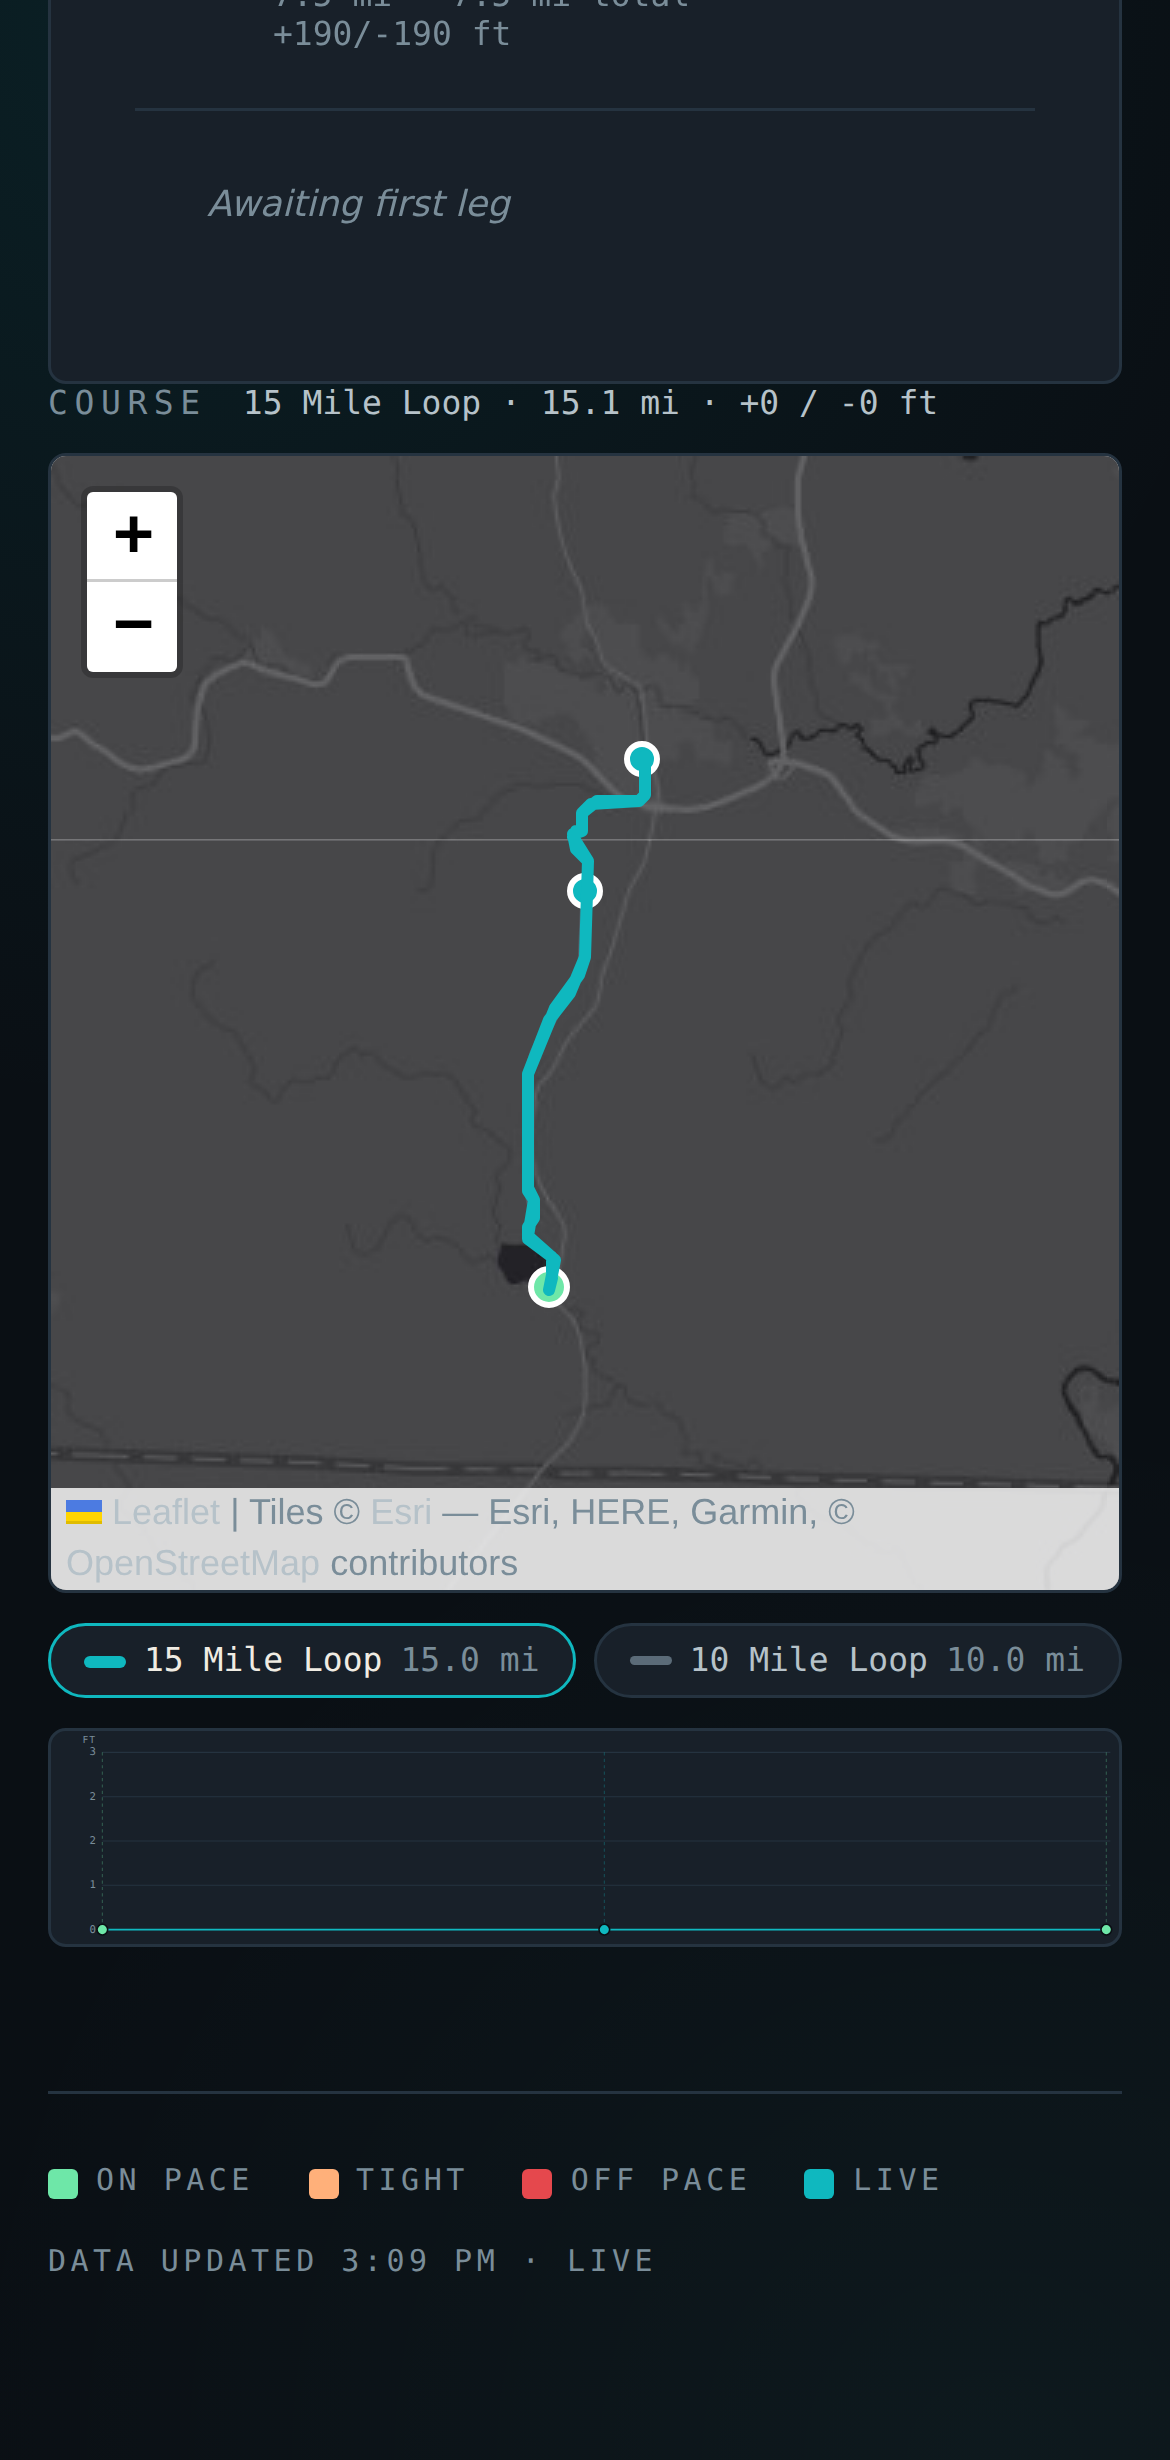
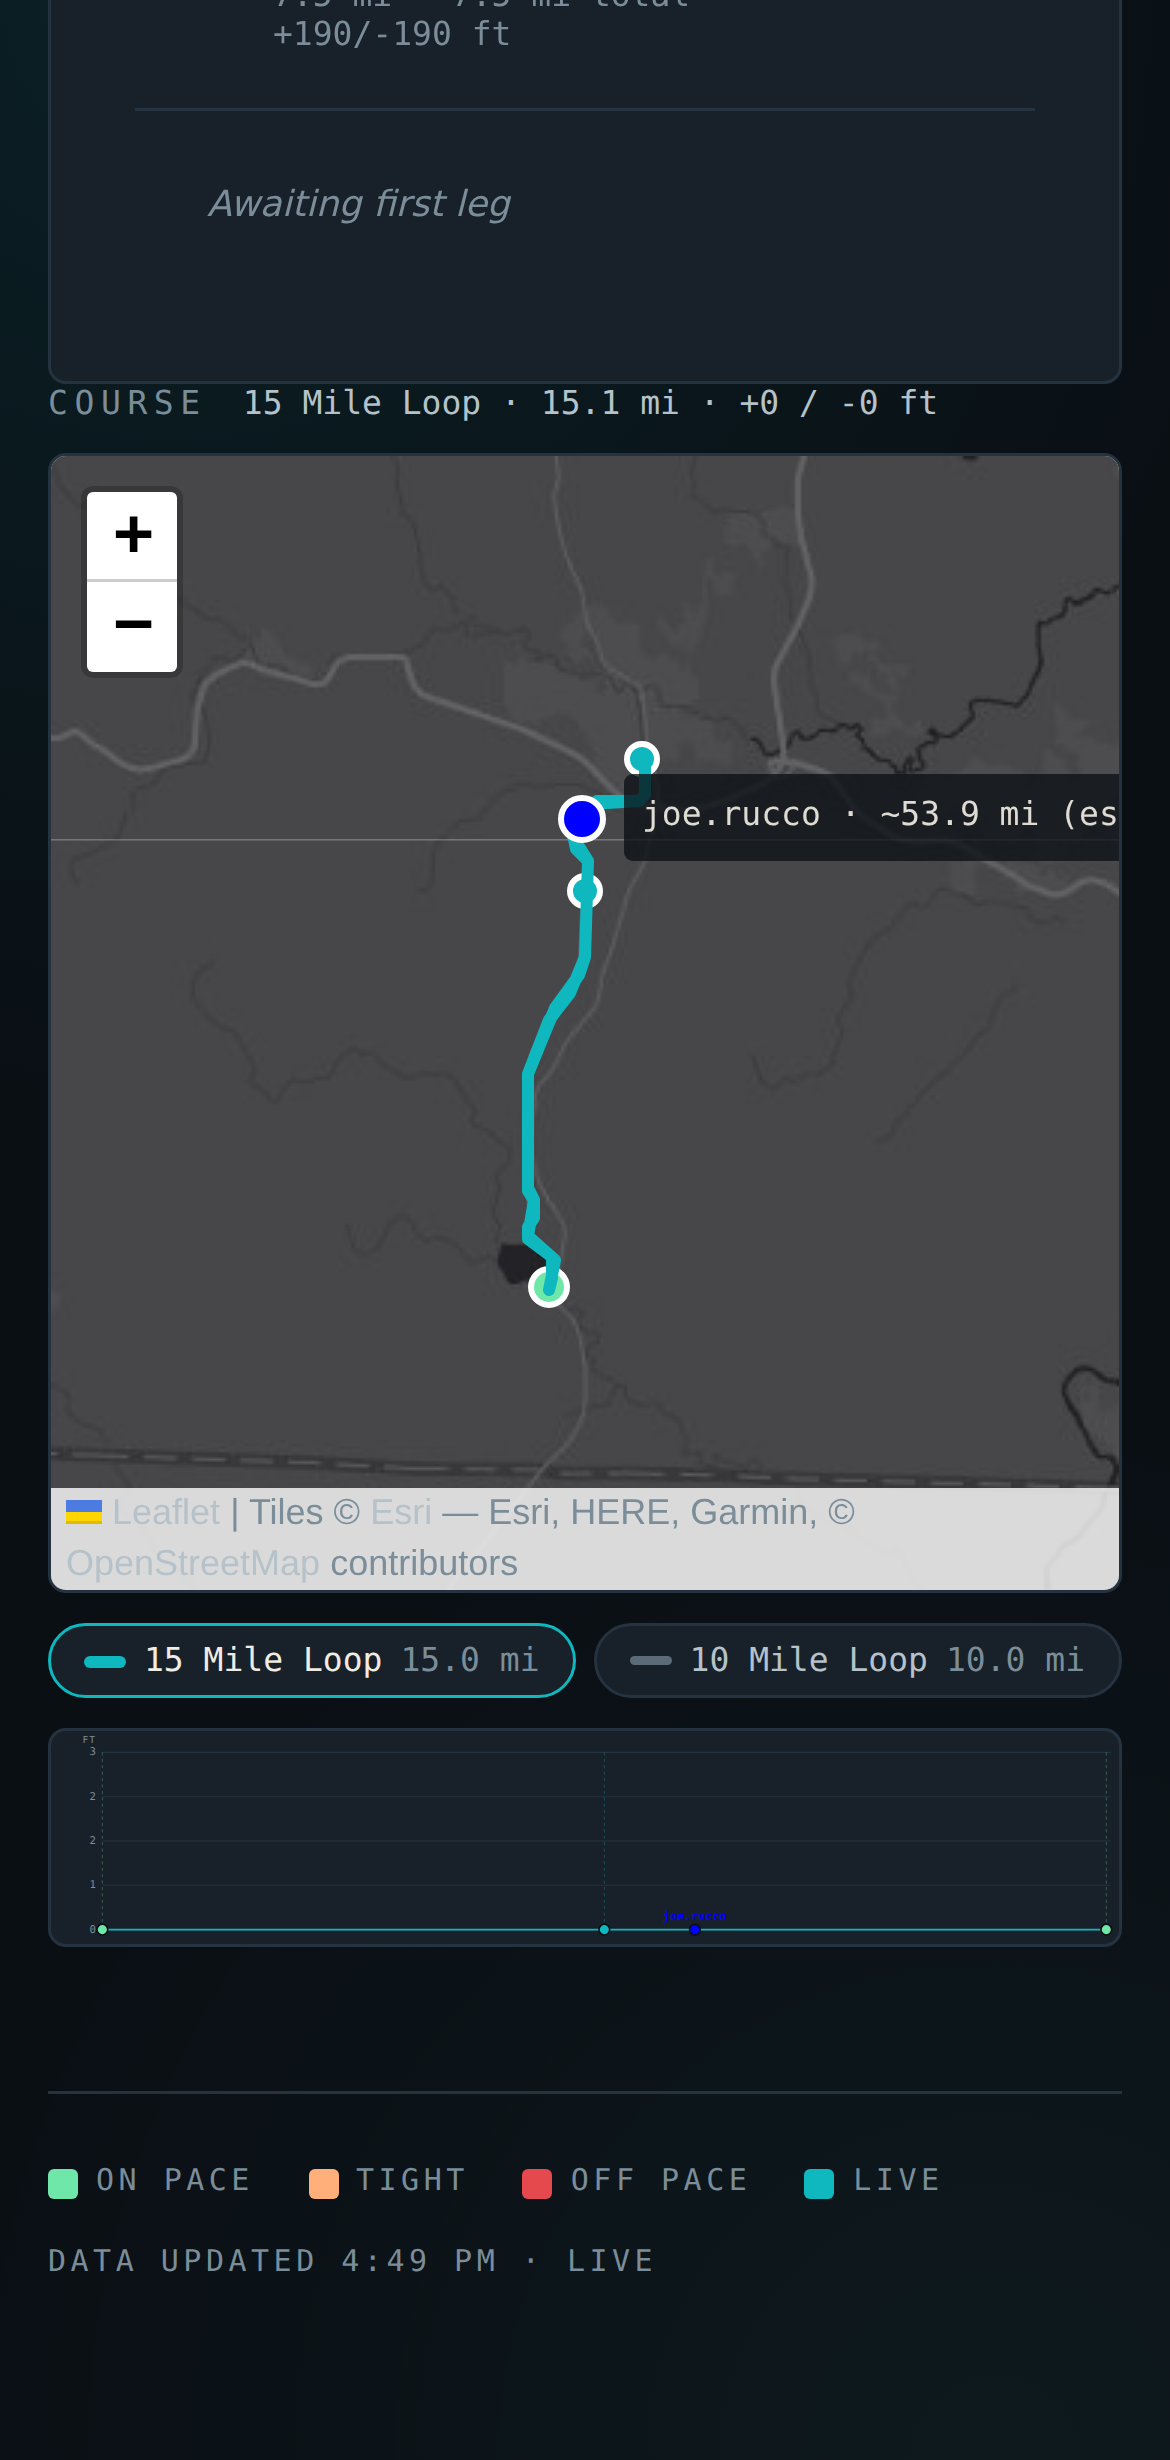
Ghost Train stories: the race at hour 8
Both racers' cards and the course map captured from the live race at
5 PM ET Saturday, about 8 hours in, and the three story options rendered
from them. The map story no longer says both racers are on it: only one
has laps logged so far, and the line has to be true either way.

Claude-Session: https://claude.ai/code/session_01EWRjYYN5ZDLhgR1pme87tD

Changed region(s): [[0.4615, 0.3089, 0.9538, 0.3707]]

diff --git a/brand/social/stories.html b/brand/social/stories.html
@@ -216,7 +216,7 @@
     <div class="wm"></div>
     <p class="kick">Ghost Train 30 Hour · Live</p>
     <h1>Find them<br><em>on the trail.</em></h1>
-    <p class="lead" style="max-width:34ch;text-wrap:balance">Both of them on the course map, live, with every lap so far on the same page.</p>
+    <p class="lead" style="max-width:34ch;text-wrap:balance">Where they are on the course map, live, with every lap so far on the same page.</p>
     <p class="when">Follow live · sendoff.run</p>
   </div>
   <div class="side-pair" style="top:930px">
